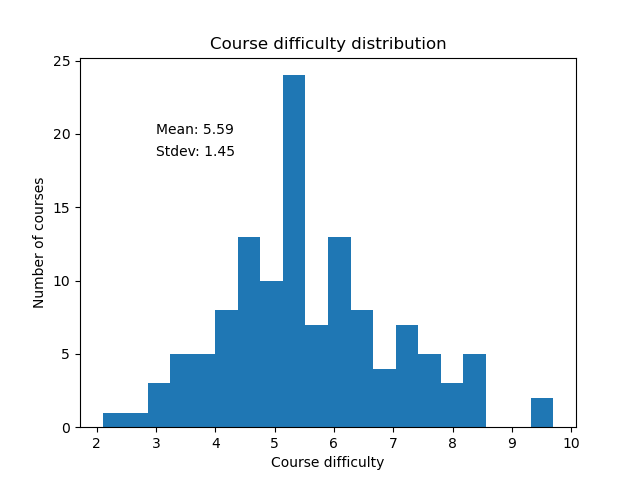
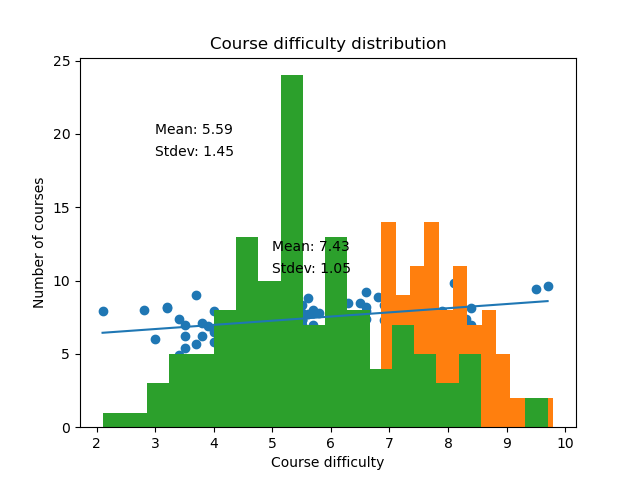
Expanded my ratings analysis

diff --git a/ratings_analysis.py b/ratings_analysis.py
@@ -2,9 +2,11 @@
 # Kenneth Burchfiel
 # First uploaded to Github on 2/19/2021
 
-# This progam takes the csv file created in course_ratings_scraper.py and performs various statistical analyses, then exports those analyses to .txt, .csv, and .png files.
+# This progam takes the csv file created in course_ratings_scraper.py; performs various statistical
+# analyses; and then exports those analyses to .txt, .csv, and .png files.
 
-# I normally would have created a Jupyter notebook with this information, but wanted to keep the individual course rating data private.
+# I normally would have created a Jupyter notebook with this information, but wanted to keep the individual
+# course rating data private.
 
 import pandas as pd
 import numpy as np
@@ -12,41 +14,53 @@ from scipy import stats
 import matplotlib.pyplot as plt
 import statsmodels.api as sm
 
+
 # The first step is to read the csv generated in course_ratings_scraper.py into a DataFrame.
 df_ratings = pd.read_csv('course_ratings.csv',index_col='course_id')
 pd.set_option('display.max_rows',1000)
 df_ratings.sort_values('course_rating',ascending=False,inplace=True)
 # print(df_ratings)
 
-# Analysis 1: Estimate the course difficulty rating that corresponds to various percentiles (from 5 to 95, in increments of 5), then save that information in .csv format.
+# Analysis 1: Estimate the course difficulty rating that corresponds to various percentiles (from 5 to 95,
+# in increments of 5), then save that information in .csv format.
 
 print("Course difficulty percentiles:")
 percentile_table = [] # This will become a list of dictionaries
 for i in range (5, 100, 5):
-    percentile_dict = {} # This dictionary will store the percentile-difficulty pair created by this iteration of the for loop.
+    percentile_dict = {} # This dictionary will store the percentile-difficulty pair created by this
+    # iteration of the for loop.
     percentile_dict['percentile'] = i
-    percentile_dict['difficulty'] =  np.percentile(df_ratings['course_difficulty'],i) # The percentile is calculated with reference to all the ratings in the course_difficulty column in our DataFrame.
+    percentile_dict['difficulty'] =  np.percentile(df_ratings['course_difficulty'],i) # The percentile is 
+    # calculated with reference to all the ratings in the course_difficulty column in our DataFrame.
     percentile_table.append(percentile_dict) # Adds this dictionary to the list of dictionaries
 
-df_difficulty_percentiles = pd.DataFrame(percentile_table) # Converts the list of dictionaries into a DataFrame
+df_difficulty_percentiles = pd.DataFrame(percentile_table) # Converts the list of dictionaries into a 
+# DataFrame
 df_difficulty_percentiles.set_index('percentile',inplace=True)
 df_difficulty_percentiles.sort_values('difficulty',ascending=False,inplace=True) 
 print(df_difficulty_percentiles)
 df_difficulty_percentiles.to_csv('difficulty_percentiles.csv')
 
-# Analysis 2: Create a scatter plot that displays the relationship between difficulty ratings and course ratings, and include a best fit line. Then save the data to a .png file.
+# Analysis 2: Create a scatter plot that displays the relationship between difficulty ratings and course
+#  ratings, and include a best fit line. Then save the data to a .png file.
 
 xset = df_ratings['course_difficulty']
 yset = df_ratings['course_rating']
 plt.scatter(xset,yset)
-plt.plot(np.unique(xset), np.poly1d(np.polyfit(xset, yset, 1))(np.unique(xset))) # From user '1"' at https://stackoverflow.com/a/31800660/13097194
-plt.xlabel("Course difficulty") # https://www.kite.com/python/answers/how-to-add-axis-labels-to-a-plot-in-matplotlib-in-python
+plt.plot(np.unique(xset), np.poly1d(np.polyfit(xset, yset, 1))(np.unique(xset))) # From user '1"' at 
+# https://stackoverflow.com/a/31800660/13097194
+plt.xlabel("Course difficulty") 
+# https://www.kite.com/python/answers/how-to-add-axis-labels-to-a-plot-in-matplotlib-in-python
 plt.ylabel("Course rating")
 plt.title("Relationship between course difficulty and course rating")
 plt.savefig('difficulty_rating_scatter.png')
-plt.show() # Placing this line before plt.savefig caused plot.savefig to return a blank image. The show() statements can be commented out in order to prevent the program from pausing.
+# plt.show() # Placing this line before plt.savefig caused plot.savefig to
+# return a blank image. The show() statements can be commented out in order to
+# prevent the program from pausing.
 
-# Analysis 3: Display a histogram of course rating data, and also include the mean and standard deviation of that data on the histogram. Then save the histogram as a .png file.
+# Analysis 3: Display a histogram of course rating data, and also include the
+# mean and standard deviation of that data on the histogram. Then save the
+# histogram as a .png file.
 
 mean_text = "Mean: "+str(round(np.mean(df_ratings['course_rating']),2))
 stdev_text = "Stdev: "+ str(round(np.std(df_ratings['course_rating']),2))
@@ -57,7 +71,7 @@ plt.title("Course rating distribution")
 plt.text(5, 12, mean_text)
 plt.text(5, 10.5, stdev_text)
 plt.savefig('course_rating_histogram.png')
-plt.show()
+# plt.show()
 
 # Analysis 4: Do the same as in Analysis 3, but with course difficulty data.
 
@@ -70,21 +84,103 @@ plt.title("Course difficulty distribution")
 plt.text(3, 20, mean_text)
 plt.text(3, 18.5, stdev_text)
 plt.savefig('course_difficulty_histogram.png')
-plt.show()
+# plt.show()
 
+# Analysis 5: Perform various regression analysis to better understand the
+# relationship between difficulty ratings and course ratings, and output this
+# analysis to a .txt file.
 
-# Analysis 5: Perform a regression analysis to better understand the relationship between difficulty ratings and course ratings, and output this analysis to a .txt file.
+# First, I will create three additional columns for my df_ratings DataFrame.
+# These columns will store course difficulty ratings raised to the second,
+# third, and fourth power, respectively. I will then include these columns in my
+# regression analyses in order to determine whether they add any explanatory
+# power to my model. 
+df_ratings['difficulty^2']=df_ratings['course_difficulty']**2
+df_ratings['difficulty^3']=df_ratings['course_difficulty']**3
+df_ratings['difficulty^4']=df_ratings['course_difficulty']**4
 
-import statsmodels.api as sm
-x = df_ratings.course_difficulty
-y = df_ratings.course_rating
-x = sm.add_constant(x)
-results = sm.OLS(y, x).fit()
-print(results.summary())
-#export_summary = results.summary.Summary()
-#export_summary.as_text()
+# Next, I will analyze four different regression models. I will first store each
+# model and its corresponding name ('1_iv' for one independent variable, '2_iv'
+# for two dependent variables, and so on) in a tuple. Next, I will add those
+# tuples to a list (model_list).
 
-# Code for exporting summary to a text file comes from Anton Taresenko (https://stackoverflow.com/a/53373860/13097194)
-with open('difficulty_rating_regression.txt', 'w') as fh:
-    fh.write(results.summary().as_text())
+model_list = []
+model_tuple = ('1_iv', df_ratings['course_difficulty']) # Stores the regression model's name along with its
+# independent variable(s). I used tuples instead of dictionaries to make it easier to access the model name later on.
+model_tuple2 = ('2_iv', df_ratings[['course_difficulty', 'difficulty^2']])
+model_tuple3 = ('3_iv', df_ratings[['course_difficulty', 'difficulty^2', 'difficulty^3']])
+model_tuple4 = ('4_iv', df_ratings[['course_difficulty', 'difficulty^2', 'difficulty^3', 'difficulty^4']])
+model_list.extend([model_tuple, model_tuple2, model_tuple3, model_tuple4])
 
+# Next, I will perform a regression on each model; store the output of that
+# model (along with its name) in a new tuple (results_tuple); then append that
+# tuple to a list of results (results_list).
+
+results_list = []
+for model in model_list:
+    print(f"Now testing a model.")
+    x = model[1]
+    y = df_ratings.course_rating
+    x = sm.add_constant(x)
+    results = sm.OLS(y, x).fit()
+    results_tuple = (model[0], results) # I found a tuple to be more convenient than a dictionary here due
+    # to its support for subscript operators
+    results_list.append(results_tuple)
+    
+    
+# I will now store the summary output for each regression, along with its name,
+# into a text file. Code for exporting summary to a text file comes from Anton
+# Taresenko (https://stackoverflow.com/a/53373860/13097194)
+with open('difficulty_rating_regressions.txt', 'w') as fh: 
+    for result in results_list:
+        print(f"\n\nResults for the {result[0]} model:", file=fh) 
+        # https://stackabuse.com/writing-to-a-file-with-pythons-print-function/
+        fh.write(result[1].summary().as_text())
+
+# The results of the regression (avaliable within
+# 'difficulty_rating_regressions.txt') indicate that the first model (with only
+# one independent variable) performs just as well or better than the second and
+# third models. Although the fourth model (with 4 independent variables) has the
+# highest R^2 value, there is a possibility that the model is overfitting to the
+# data. If I had more data points, I could try performing a 5-fold cross
+# validation to better evaluate each model; however, for now, I will choose to
+# use the one-variable model.
+
+# My final analysis will be to determine the error value of my model's
+# prediction for each class. In my one-variable model, each class's predicted
+# difficulty rating equals the model's intercept plus the product of the class's
+# coefficient. 
+
+# By adding this error value to my DataFrame, I will be able to calculate a
+# 'value' of sorts for each class. If a class's difficulty is seen as its 'cost'
+# and its rating as seen as its quality, the error term (the discrepancy between
+# its cost and its quality) reflects how much quality a student gets for the
+# effort he or she puts into the class. In this case, the classes with the
+# lowest error terms (i.e. -3) will offer the best value for students, and those with the
+# highest error terms (i.e. 2) will offer the worst value.
+# 
+
+# First, I will extract the intercept and difficulty coefficients from my first
+# model's regression results.
+
+parameters = results_list[0][1].params 
+# Retrieves the parameters from the second element (the results output) of the first tuple in results_list
+#  (the one-variable model).
+model_intercept = parameters[0]
+model_difficulty_coeff = parameters[1]
+print(model_intercept,model_difficulty_coeff)
+
+# I will now create two news columns in my df_ratings DataFrame: (1) a
+# 'prediction' column showing the rating my model predicts for each class, and
+# (2) an 'error' column showing the discrepancy between my prediction and the
+# actual rating. As discussed above, this error term also represents the 'value'
+# a student gets from a given class.
+
+df_ratings['prediction']=model_intercept + model_difficulty_coeff*df_ratings['course_difficulty']
+df_ratings['error'] = df_ratings['prediction']-df_ratings['course_rating']
+df_ratings.sort_values('error',inplace=True)
+df_ratings
+
+# Finally, I will export this expanded DataFrame to a new csv file so as not to
+# overwrite the original DataFrame.
+df_ratings.to_csv('course_ratings_expanded.csv')
